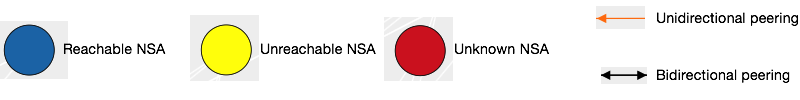
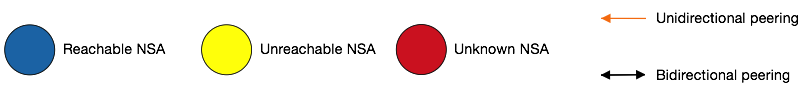
changes on legend background to white

diff --git a/gui/static/css/main.css b/gui/static/css/main.css
@@ -99,7 +99,7 @@ header a:hover {
 
 section,
 footer {
-    background-color: #f1f1f1;
+    /*background-color: #f1f1f1;*/
     -webkit-border-radius: 8px;
     -moz-border-radius: 8px;
     border-radius: 8px;
